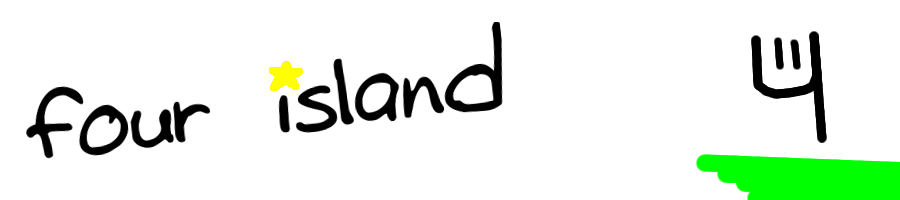
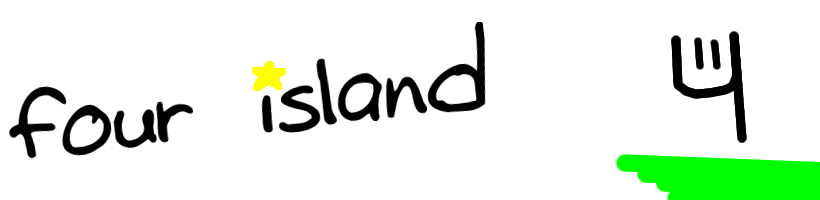
Created layout 6.1

diff --git a/theme/css/website.css b/theme/css/website.css
@@ -107,6 +107,7 @@ div#banner, div#fi-banner {
 
 div#banner {
  background-image: url("/theme/images/fourisland_header.png");
+ background-position: center;
 }
 
 body div#banner h1, body div#fi-banner h1 {
@@ -132,10 +133,19 @@ div#banner h1, div#fi-banner h1 {
 
 div#fi-navbar {
  position: relative;
+ background-color: #b7e0ff;
+ border-left: 5px solid gray;
+ border-right: 5px solid gray;
+ border-top: none;
+ border-bottom: none;
+ width: auto;
+ margin-bottom: 14px;
+ font: 0.9em "Lucida Grande", Lucida, Verdana, sans-serif;
 }
 
-div#fi-navbar .rounded {
- padding: 0;
+div#fi-navbar div {
+ padding: .001em 0;
+ margin: 10px;
 }
 
 div#fi-navbar ul {
@@ -185,7 +195,6 @@ div#fi-navbar div.bubble blockquote a {
 div#rightbar {
  float: left;
  width: 250px; /*210*/
- padding: 0 10;
 }
 
 div.sidebar {
@@ -236,23 +245,9 @@ div#sidebar li img {
  margin: 10px auto;
  text-align: left;
  padding: 0;
-}
-
-body.fourm div#wrap,
-body.poll div#wrap,
-body.admin div#wrap {
  background-image: url(/theme/images/bg_body.gif);
  background-repeat: repeat-y;
-}
-
-div#top-fade {
- position: absolute;
- top: 0;
- left: 0;
- width: 100%;
- background-image: url(/theme/images/top_fade.png);
- height: 400px;
- z-index: 0;
+ border-top: 4px solid gray;
 }
 
 #page-body {
@@ -310,15 +305,8 @@ div#footer {
  margin-top: .5em;
  text-align: center;
  font-size: .68em;
- width: 100%;
  border-top: 1px black solid;
  border-bottom: 4px gray solid;
-}
-
-body.home div#footer {
- background-color: white;
- border-left: 4px gray solid;
- border-right: 4px gray solid;
 }
 
 div#footer ul.rows li {

diff --git a/theme/css/bubbles.css b/theme/css/bubbles.css
@@ -34,7 +34,8 @@ div.bubble div.rounded {
 	border: 3px solid #fff;
 	background-color: #b7e0ff;
 }
-div.bubble div.rounded blockquote {
+div.bubble div.rounded blockquote,
+div.bubble div.navbar-rounded blockquote {
 	border: 0;
 	background-color: transparent;
 }
